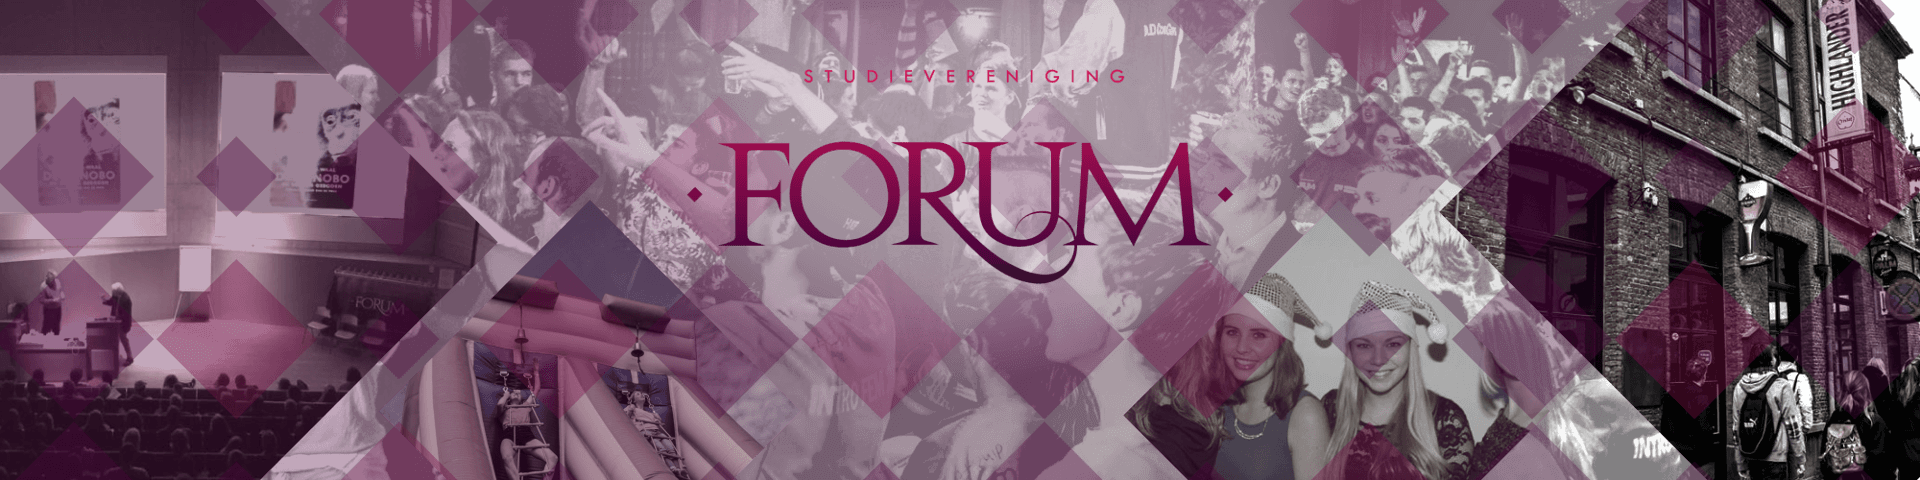
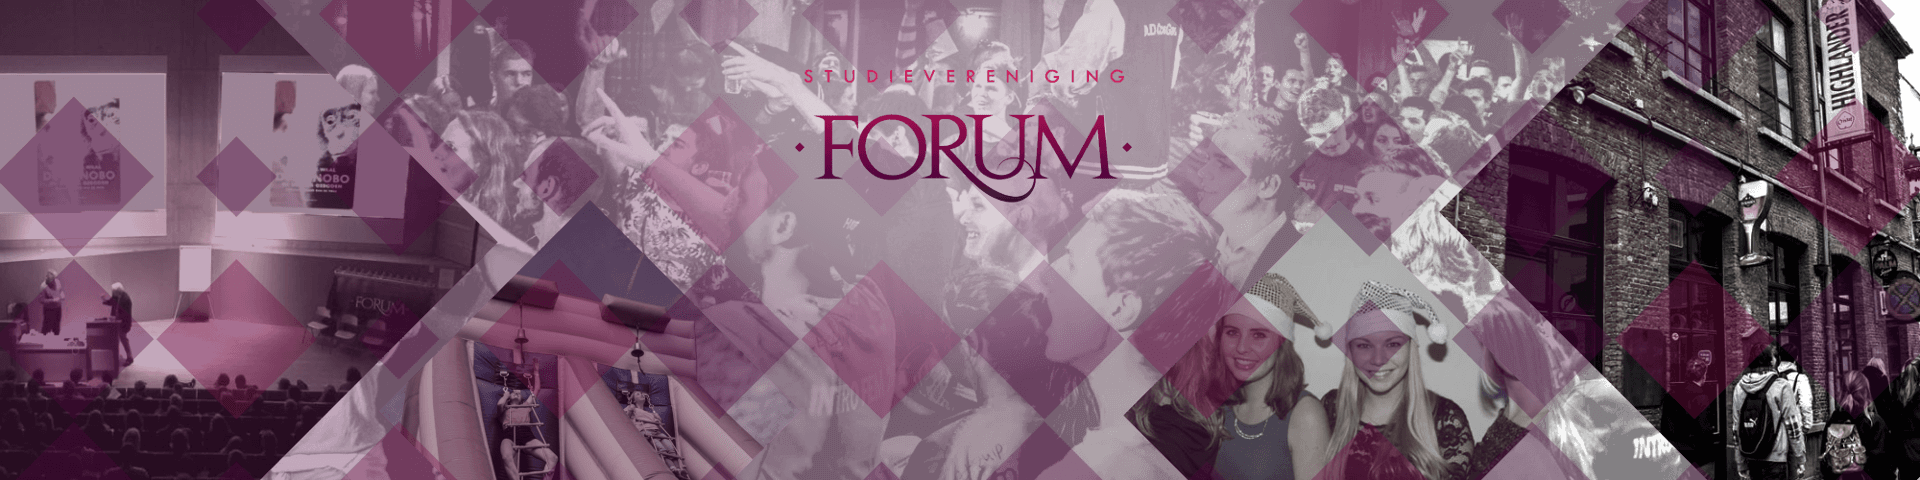
kleine kut dingen en nieuwe achtergrond

Changed region(s): [[0.375, 0.2188, 0.625, 0.5938]]

diff --git a/resources/views/layouts/master.blade.php b/resources/views/layouts/master.blade.php
@@ -59,9 +59,9 @@
                 <li class="dropdown">
                     <a href="#" class="dropdown-toggle" data-toggle="dropdown">Wie zijn wij? <b class="caret"></b></a>
                     <ul class="dropdown-menu">
-                        <li>{!! HTML::link('/denaam', 'De naam') !!}</li>
+                        <li>{!! HTML::link('/de-naam', 'De naam') !!}</li>
                         <li>{!! HTML::link('/missie-en-visie', 'Missie en visie') !!}</li>
-                        <li>{!! HTML::link('/hetbestuur', 'Het bestuur') !!}</li>
+                        <li>{!! HTML::link('/het-bestuur', 'Het bestuur') !!}</li>
                         <li>{!! HTML::link('/commissies', 'Commissies') !!}</li>
                         <li>{!! HTML::link('/disputen', 'Disputen') !!}</li>
                         <li>{!! HTML::link('/statuten', 'Statuten') !!}</li>
@@ -108,7 +108,7 @@
                         Telefoon: +31 (0) 88 48 16 347<br/>
                         Email: <a href="mailto:secretaris@svforum.nl">secretaris@svforum.nl</a><br/>
                         Voor zakelijk contact: <a href="mailto:sponsoring@svforum.nl">sponsoring@svforum.nl</a><br/>
-                        Kvk: 55878431
+                        KvK nummer: 55878431
                     </p>
                 </div>
             </div>

diff --git a/resources/views/pages/public/index.blade.php b/resources/views/pages/public/index.blade.php
@@ -74,7 +74,7 @@
             <div class="col-md-8">
                 <div class="block-header">
                     <h2>
-                        <span class="title">Welkom op de website van Forum</span><span
+                        <span class="title">Welkom op de website van studievereniging Forum</span><span
                                 class="decoration"></span><span class="decoration"></span><span
                                 class="decoration"></span>
                     </h2>
@@ -85,7 +85,7 @@
                 </div>
                 {!! HTML::image('img/custom/logofront.png','Logo FORUM',array('class' => 'img-about img-responsive')) !!}
                 <p>
-                    S.v Forum faciliteert een optimale combinatie tussen gezelligheid en studiesucces. Dit doen we door middel
+                    S.v. Forum faciliteert een optimale combinatie tussen gezelligheid en studiesucces. Dit doen we door middel
                     van het organiseren van (netwerk)borrels, (thema)feesten, karaoke avonden, en vele andere
                     activiteiten. Daarnaast gaan we ook elk jaar met een leuke groep op wintersport en organiseren we
                     het inmiddels befaamde introductiekamp voor eerstejaars studenten.

diff --git a/app/Http/routes.php b/app/Http/routes.php
@@ -15,9 +15,7 @@ Route::get('/', 'PublicController@index');
 
 Route::get('home', 'HomeController@index');
 
-Route::get('/hetbestuur', 'PublicController@bestuur');
-
-Route::get('/denaam', 'PublicController@denaam');
+Route::get('/de-naam', 'PublicController@denaam');
 
 Route::get('/missie-en-visie', 'PublicController@menv');
 
@@ -25,7 +23,7 @@ Route::get('/commissies', 'PublicController@commissies');
 
 Route::get('/statuten', 'PublicController@statuten');
 
-Route::get('/hetbestuur', 'PublicController@hetbestuur');
+Route::get('/het-bestuur', 'PublicController@hetbestuur');
 
 Route::get('/disputen', 'PublicController@disputen');
 

diff --git a/resources/views/pages/public/contact.blade.php b/resources/views/pages/public/contact.blade.php
@@ -68,7 +68,7 @@
                     Telefoon: +31 (0) 88 48 16 347<br />
                     Email: <a href="mailto:secretaris@svforum.nl">secretaris@svforum.nl</a><br />
                     Voor zakelijk contact: <a href="mailto:sponsoring@svforum.nl">sponsoring@svforum.nl</a><br />
-                    Kvk: 55878431<br />
+                    KvK nummer: 55878431<br />
                     Facebook: <a href="https://www.facebook.com/studieverenigingforum" target="_blank">LIKE ons op Facebook!</a><br />
                 </p>
                 <hr>

diff --git a/app/Http/Controllers/PublicController.php b/app/Http/Controllers/PublicController.php
@@ -45,11 +45,6 @@ class PublicController extends Controller {
         return view('pages.public.denaam');
     }
 
-    public function bestuur()
-    {
-        return view('pages.public.hetbestuur');
-    }
-
     public function menv()
     {
         return view('pages.public.menv');
